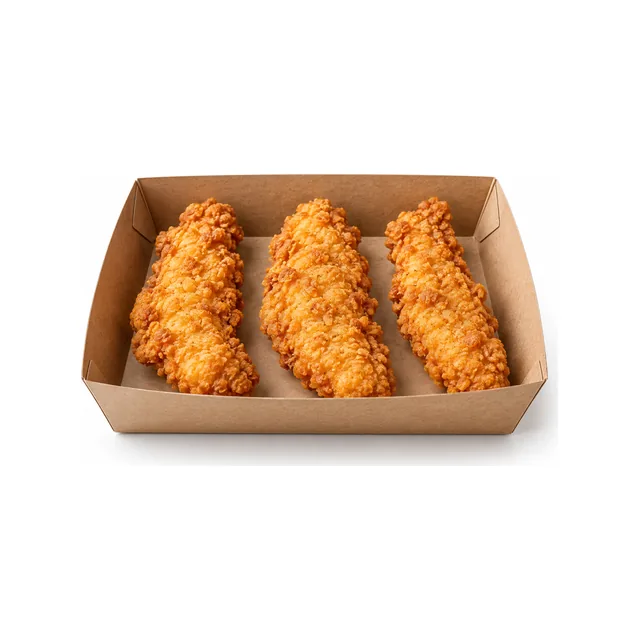
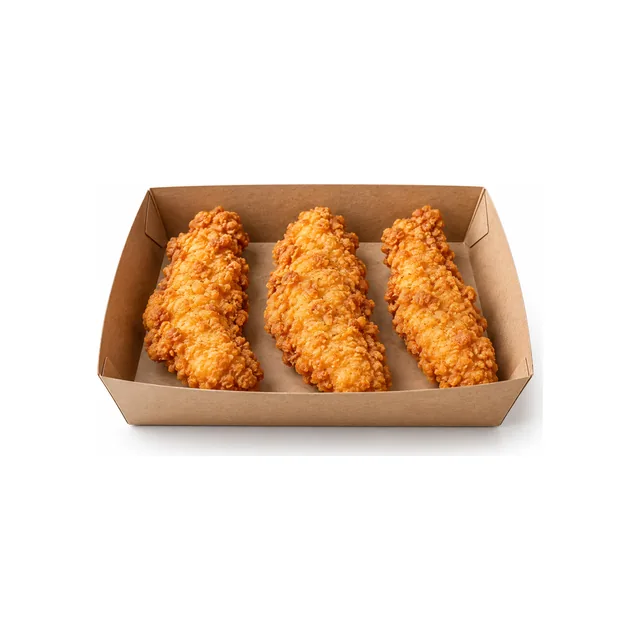
Стрипсы: фото на 7 шт, все три фото в одном масштабе
Фото на 7 шт прислал владелец. Крышка на нём была обрезана краем кадра,
срезана по сгибу. Фото на 3, 5 и 7 шт пересобраны: стрипсы одного размера,
коробка растёт вместе с порцией.

Changed region(s): [[0.125, 0.25, 0.875, 0.75]]

diff --git a/assets/js/data.js b/assets/js/data.js
@@ -15,8 +15,8 @@
     Обе чашки сняты в одном масштабе, поэтому при выборе 300 мл чашка становится больше;
   - у Острых крыльев своё фото на 5, 10 и 15 шт (владелец, 02.10.2026). Крылья на всех трёх одного размера,
     поэтому коробка растёт вместе с порцией;
-  - у Стрипсов своё фото на 3 и 5 шт (владелец, 04.10.2026), сняты так же, как крылья. Фото на 7 шт владелец
-    ещё не прислал (вместо него дважды пришло фото на 5 шт), поэтому у 7 шт пока старое общее фото;
+  - у Стрипсов своё фото на 3, 5 и 7 шт (владелец, 04.10.2026). Стрипсы на всех трёх одного размера,
+    поэтому коробка растёт вместе с порцией. У фото 7 шт крышка была обрезана краем кадра, её срезали по сгибу;
   - часы работы 10:00-20:00 назвал владелец 02.10.2026;
   - рейтинг и отзывы: пробный сайт hink-beri.vercel.app и Яндекс Карты.
   Пункты с пометкой verify: true прочитаны с мелкой фотографии, их стоит сверить.
@@ -67,7 +67,7 @@ window.HB = {
                     { label: 'L, 15 шт', price: 450, photo: 'wings-15' }] },
         { name: 'Стрипсы', desc: 'Куриное филе в хрустящей панировке', photo: 'strips-3', verify: true,
           options: [{ label: '3 шт', price: 210, photo: 'strips-3' }, { label: '5 шт', price: 310, photo: 'strips-5' },
-                    { label: '7 шт', price: 450, photo: 'strips' }] },
+                    { label: '7 шт', price: 450, photo: 'strips-7' }] },
         { name: 'Наггетсы', desc: 'Нежная курица в панировке', photo: 'nuggets', verify: true,
           options: [{ label: '4 шт', price: 120 }, { label: '6 шт', price: 150 }, { label: '12 шт', price: 290 }] },
         { name: 'Сырные палочки', desc: 'Тянущийся сыр в хрустящей корочке', photo: 'cheese-sticks',
